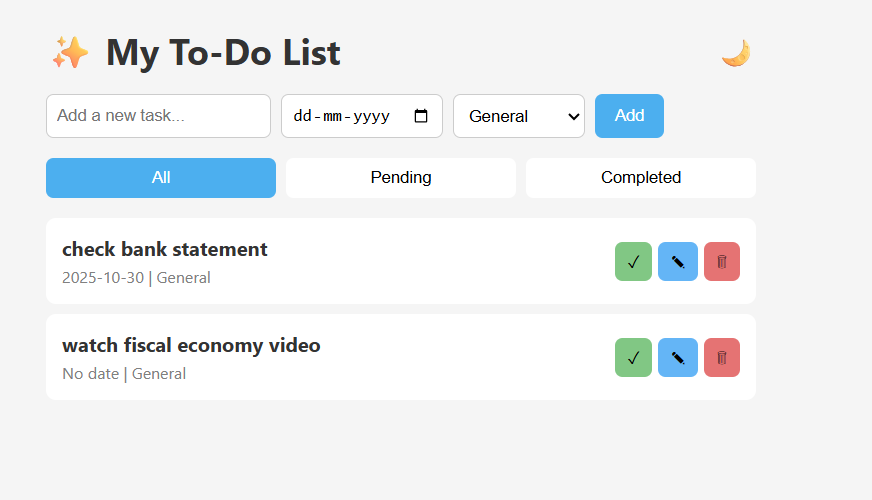
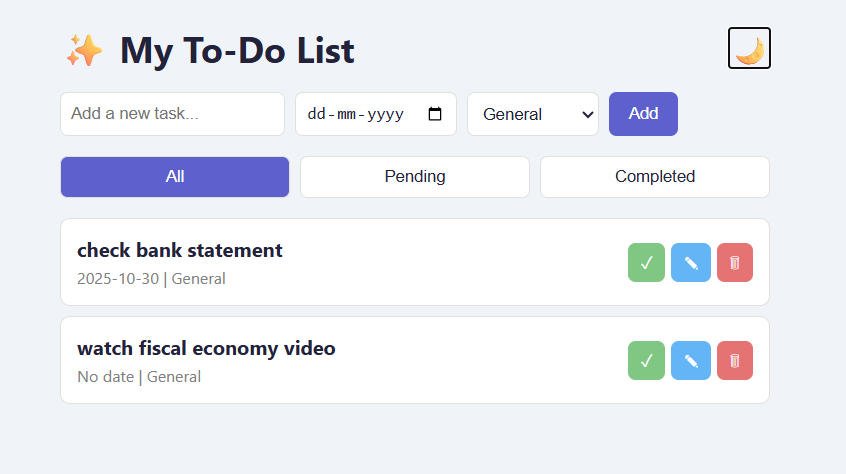
added images

diff --git a/style.css b/style.css
@@ -12,16 +12,20 @@ body {
 }
 
 :root {
-  --bg: #f5f5f5;
-  --card: #fff;
-  --text: #333;
-  --accent: #4cafef;
+  --bg: #f0f4f8;
+  --card: #ffffff;
+  --text: #22223b;
+  --accent: #5e60ce;
+  --accent-hover: #3a0ca3;
+  --border: #e0e1dd;
 }
 body.dark {
-  --bg: #181818;
-  --card: #242424;
-  --text: #eee;
-  --accent: #90caf9;
+  --bg: #232946;
+  --card: #1a1a2e;
+  --text: #e0e1dd;
+  --accent: #eebbc3;
+  --accent-hover: #b8c1ec;
+  --border: #393e46;
 }
 
 .app {
@@ -52,8 +56,10 @@ header h1 {
 }
 .task-input input, .task-input select {
   padding: 0.5rem;
-  border: 1px solid #ccc;
+  border: 1px solid var(--border);
   border-radius: 6px;
+  background: var(--card);
+  color: var(--text);
 }
 .task-input button {
   background: var(--accent);
@@ -65,7 +71,8 @@ header h1 {
   transition: 0.2s;
 }
 .task-input button:hover {
-  opacity: 0.9;
+  background: var(--accent-hover);
+  opacity: 1;
 }
 
 .filters {
@@ -80,11 +87,13 @@ header h1 {
   padding: 0.5rem;
   cursor: pointer;
   background: var(--card);
+  color: var(--text);
+  border: 1px solid var(--border);
   transition: 0.2s;
 }
 .filters .active {
   background: var(--accent);
-  color: white;
+  color: #fff;
 }
 
 #taskList {
@@ -98,6 +107,7 @@ header h1 {
   display: flex;
   justify-content: space-between;
   align-items: center;
+  border: 1px solid var(--border);
 }
 .task.completed {
   text-decoration: line-through;
@@ -117,9 +127,9 @@ header h1 {
   border-radius: 6px;
   cursor: pointer;
 }
-.task button.complete { background: #81c784; }
-.task button.delete { background: #e57373; }
-.task button.edit { background: #64b5f6; }
+.task button.complete { background: #81c784; color: #fff; }
+.task button.delete { background: #e57373; color: #fff; }
+.task button.edit { background: #64b5f6; color: #fff; }
 
 @media (max-width: 600px) {
   html, body {

diff --git a/README.md b/README.md
@@ -2,7 +2,7 @@
 
 A modern, responsive, and themeable To-Do List web app built with HTML, CSS, and JavaScript.
 
-![screenshot](./screenshot.png)
+![screenshot](./image.png)
 
 ## ✨ Features
 
@@ -34,7 +34,7 @@ Switch between light and dark mode using the theme button in the header.
 
 | Light Mode | Dark Mode |
 |------------|-----------|
-| ![light](./screenshot-light.png) | ![dark](./screenshot-dark.png) |
+| ![light](./image.png) | ![dark](./dark_mode.png) |
 
 ## 🛠 Built With
 
